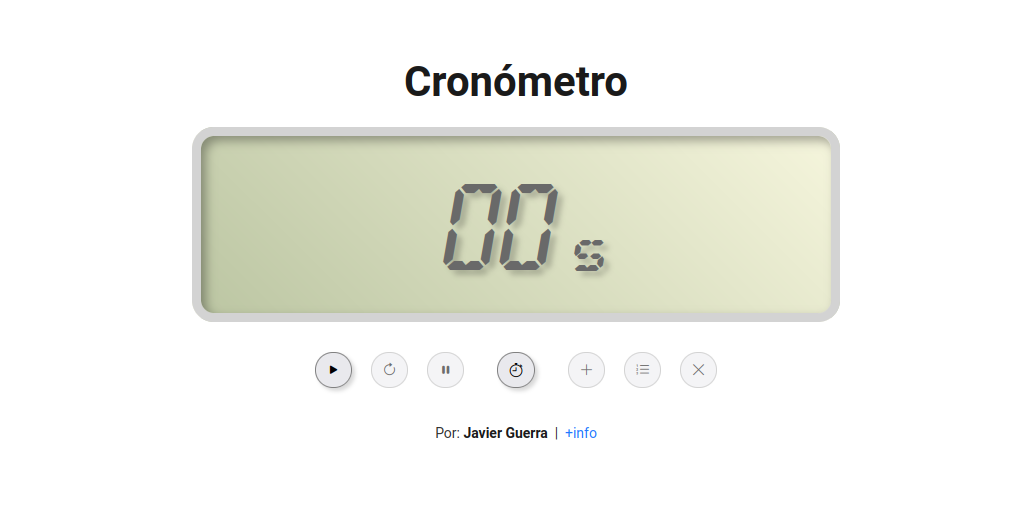
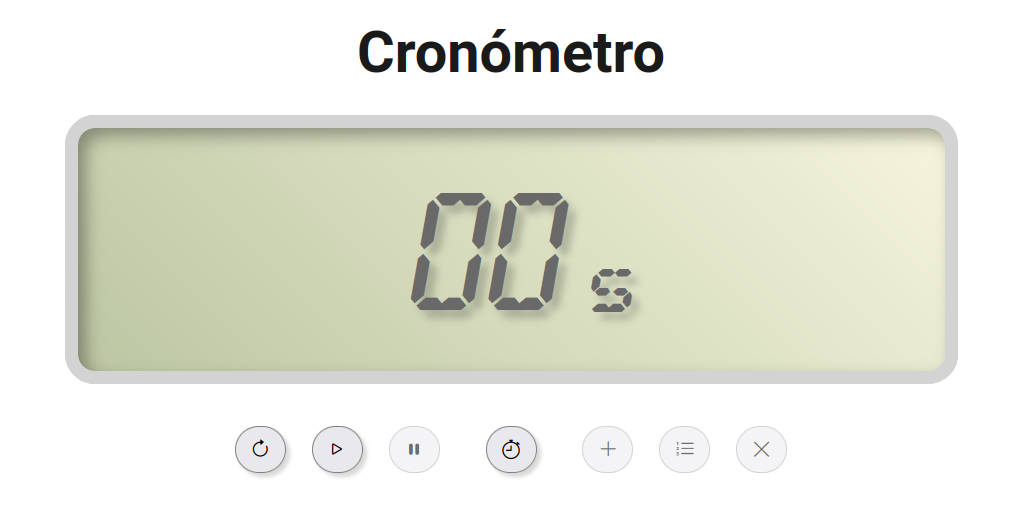
cronometro

diff --git a/script.js b/script.js
@@ -70,6 +70,7 @@ if (existeClave('ultSesion')) {
 /* Inicia el cronómetro */
 function iniciaCrono() {
     botonsCrono(btnInicia);
+    poneBtnReinicio(true);
 
     parateCrono();
     tiempo = -1; // Porque sumaCrono() le suma 1.
@@ -107,6 +108,7 @@ function parateCrono() {
 function cuentaCrono() {
     parateCrono();
     botonsCuenta();
+    poneBtnReinicio(false);
 
     tiempo = 11; // Porque restaCuenta() le resta 1.
     restaCuenta();
@@ -208,6 +210,18 @@ function btnInactivo(boton, estado) {
     } else {
       boton.disabled = false;
       boton.setAttribute('aria-disabled', 'false');
+    }
+}
+
+/* Cambia el icono del botón de inicio/reiniciar */
+function poneBtnReinicio(estado) {
+    let icono = elemento('#inicia i');
+    if (estado) {
+        icono.classList.remove('bi-play-fill');
+        icono.classList.add('bi-arrow-clockwise');
+    } else {
+        icono.classList.remove('bi-arrow-clockwise');
+        icono.classList.add('bi-play-fill');
     }
 }
 

diff --git a/index.html b/index.html
@@ -55,7 +55,7 @@
                         <span class="sr">Iniciar</span>
                     </button>
                     <button id="contin" title="Continuar">
-                        <i class="bi bi-arrow-clockwise"></i>
+                        <i class="bi bi-play"></i>
                         <span class="sr">Continuar</span>
                     </button>
                     <button id="parate" title="Parar">
